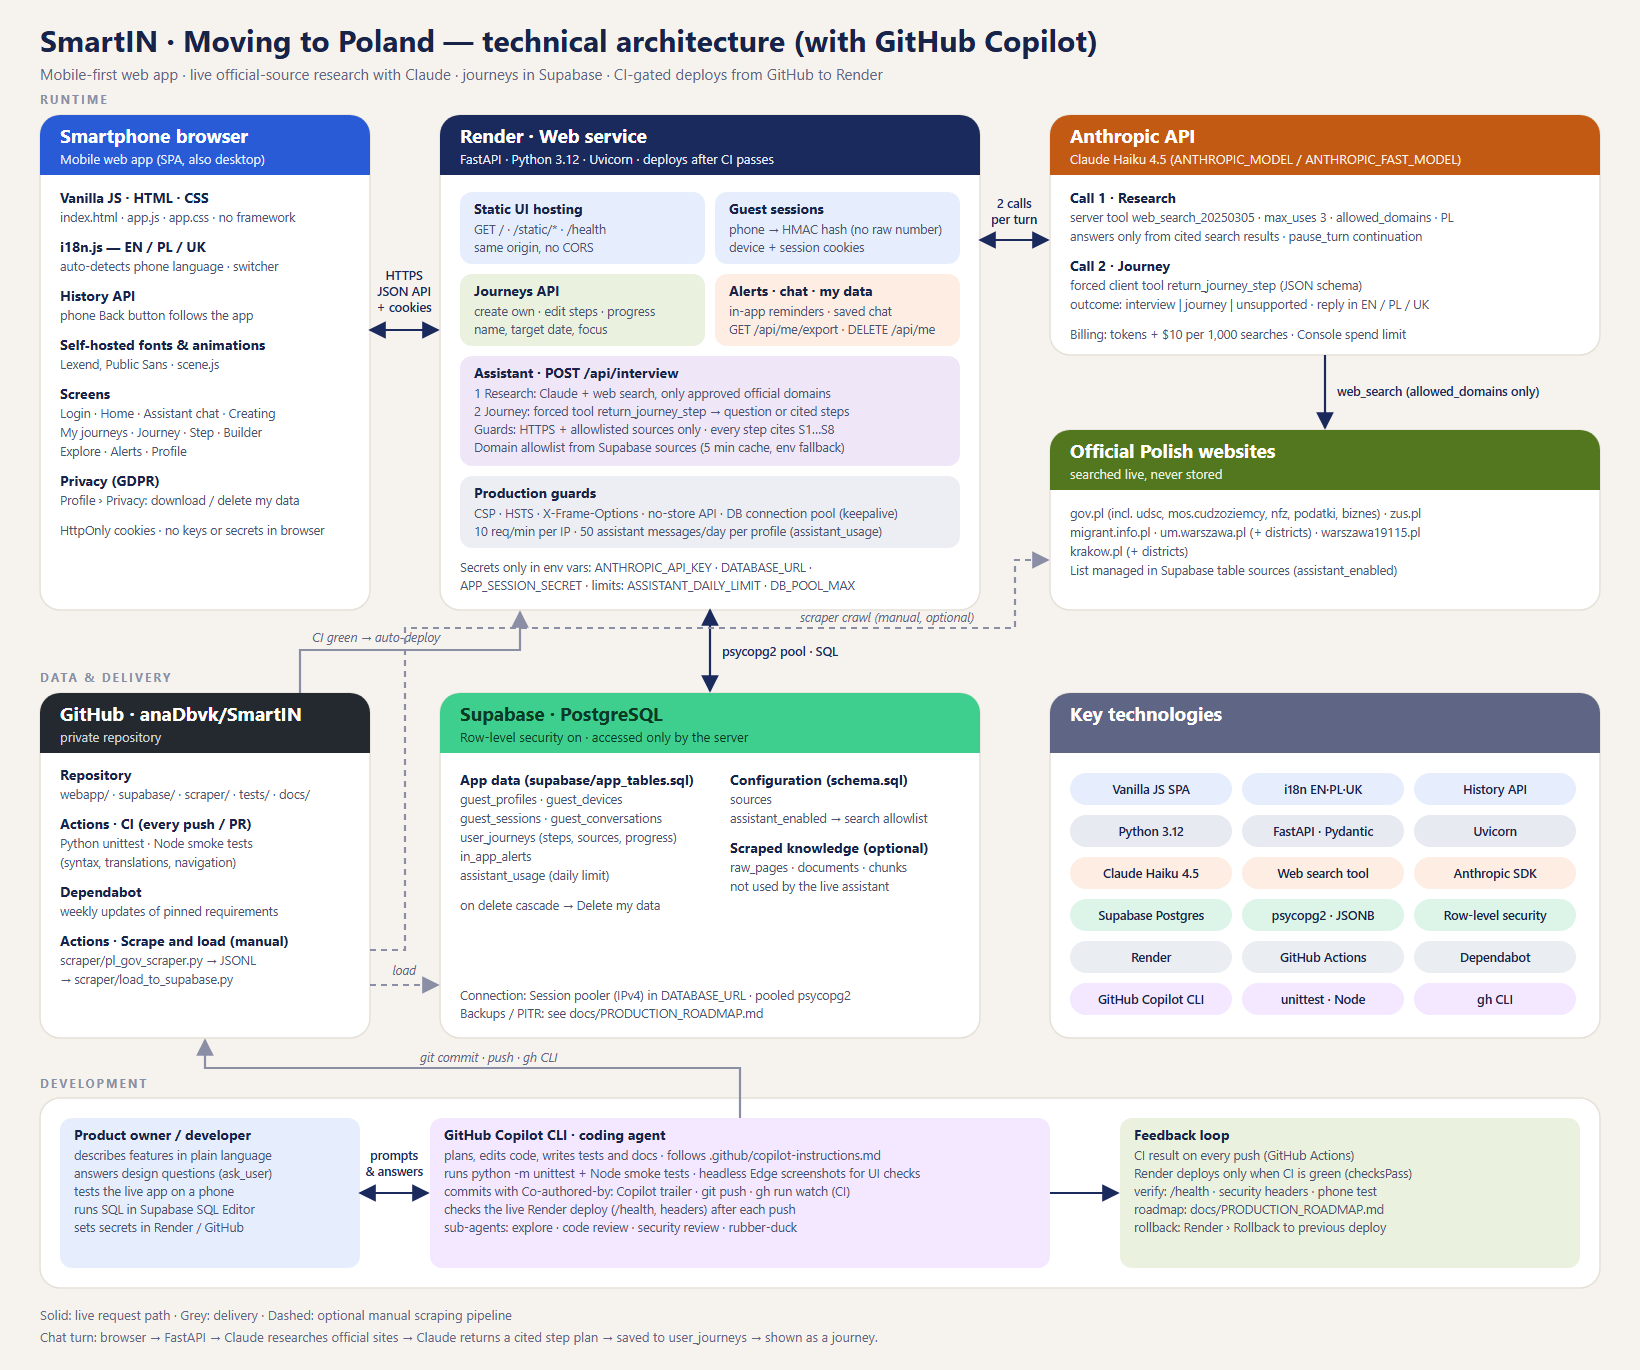
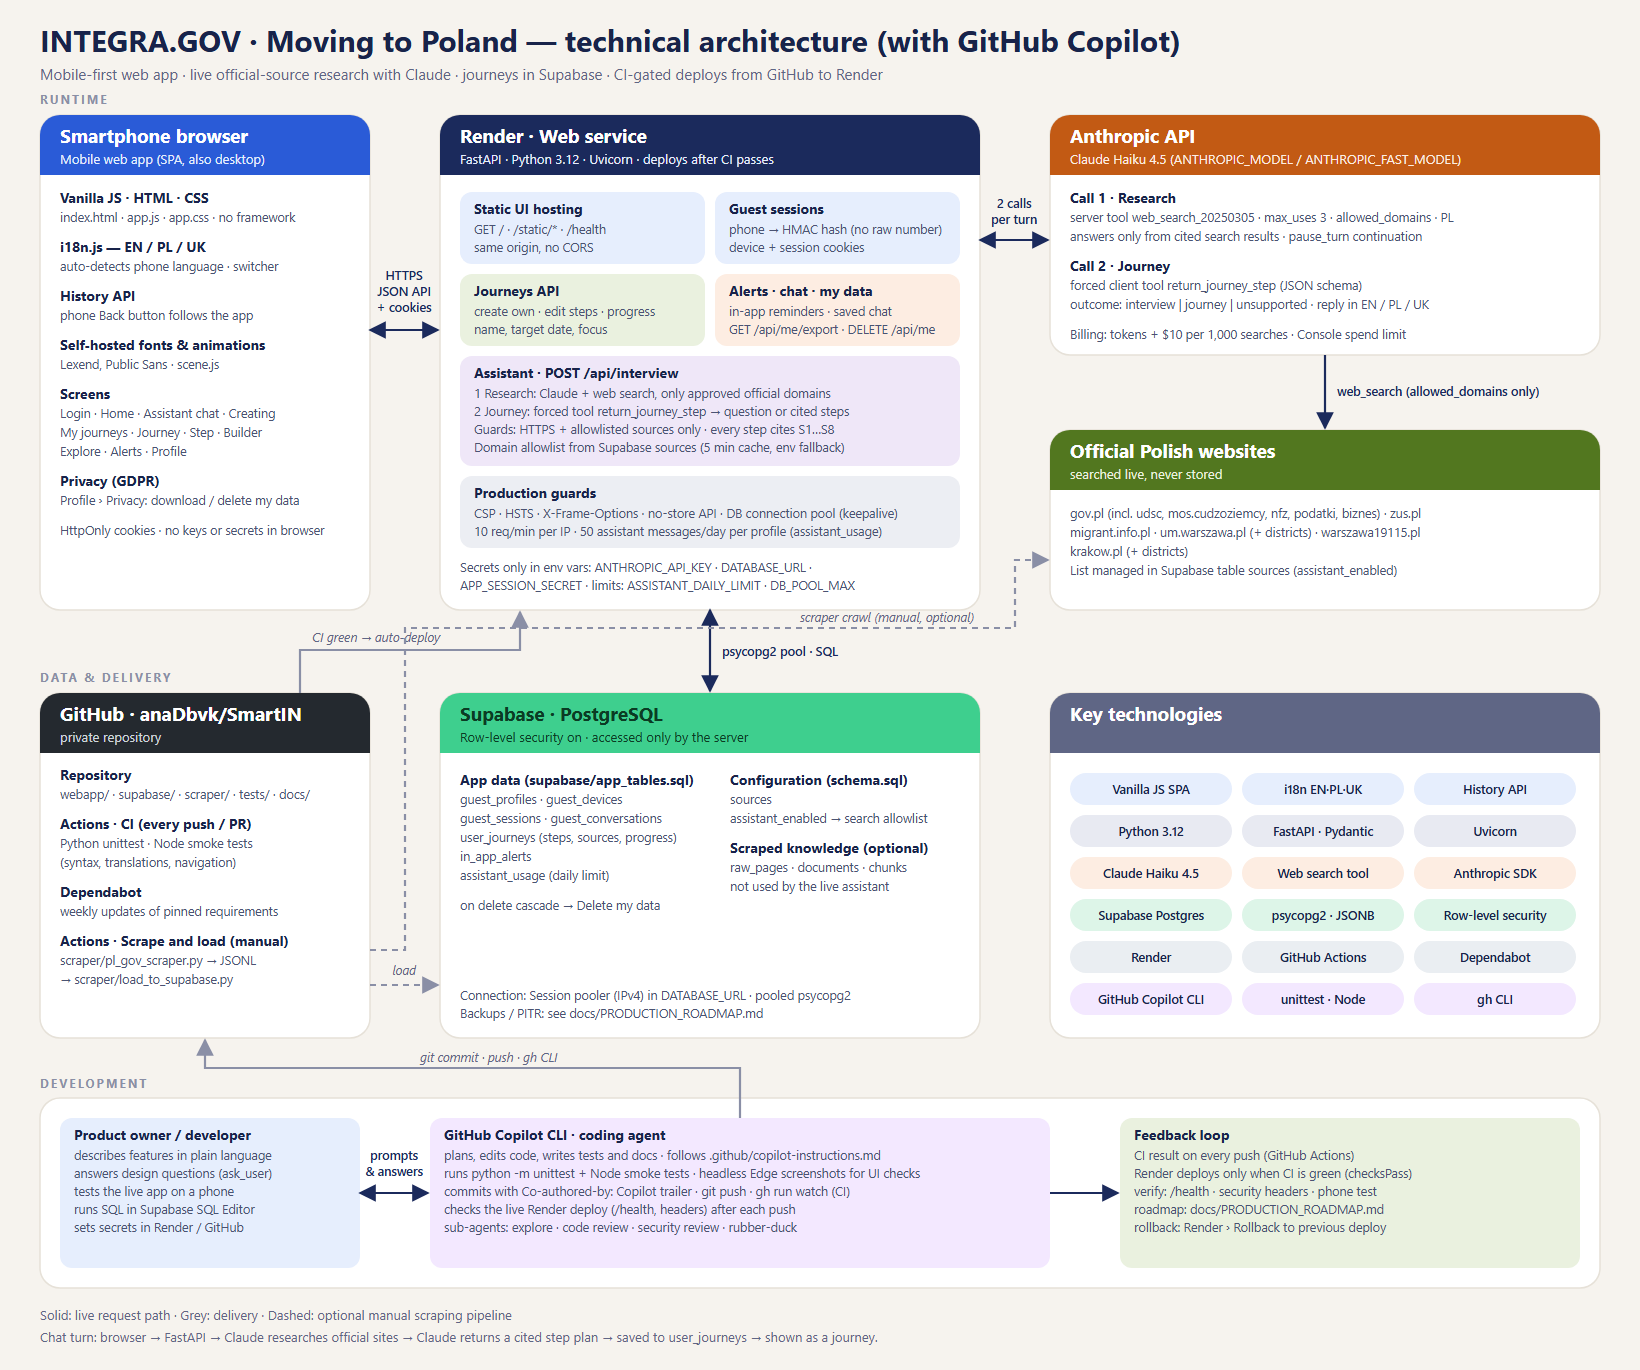
Rename SmartIN to INTEGRA.GOV in documentation and diagrams

Changed region(s): [[0.0311, 0.0, 0.7152, 0.0613]]

diff --git a/docs/build_diagrams.py b/docs/build_diagrams.py
@@ -1,4 +1,4 @@
-"""Generate the SmartIN architecture diagrams.
+"""Generate the INTEGRA.GOV architecture diagrams.
 
     python docs/build_diagrams.py
 
@@ -90,7 +90,7 @@ def build(copilot):
 </style>
 </defs>""")
     p.append(f'<rect width="{W}" height="{H}" fill="#F6F3EE"/>')
-    title = "SmartIN · Moving to Poland — technical architecture"
+    title = "INTEGRA.GOV · Moving to Poland — technical architecture"
     p.append(text(40, 52, title + (" (with GitHub Copilot)" if copilot else ""), "t", style="font-size:30px;font-weight:700"))
     p.append(text(40, 80, "Mobile-first web app · live official-source research with Claude · journeys in Supabase · "
                   "CI-gated deploys from GitHub to Render", "s", style="font-size:15px;fill:#5F6685"))

diff --git a/docs/PRODUCTION_ROADMAP.md b/docs/PRODUCTION_ROADMAP.md
@@ -1,4 +1,4 @@
-# SmartIN – Road to production
+# INTEGRA.GOV – Road to production
 
 This checklist is based on the current code (`webapp/app.py`, `render.yaml`, `supabase/*.sql`). Items are ordered by priority. **P0** must be done before real users, **P1** before public launch, and **P2** after launch.
 
@@ -76,7 +76,7 @@ This checklist is based on the current code (`webapp/app.py`, `render.yaml`, `su
 - [ ] Write a runbook: how to roll back on Render, restore the DB, and rotate keys.
 
 ### 9. Domain and delivery
-- [ ] Your own domain (for example `smartin.pl`) on Render with automatic HTTPS.
+- [ ] Your own domain (for example `integragov.pl`) on Render with automatic HTTPS.
 - [ ] Serve static files with cache headers and a version hash (`app.js?v=...`), or put Cloudflare in front for CDN and DDoS protection.
 - [ ] Make it a **PWA**: `manifest.json`, icons and a service worker, so users can "Add to Home Screen" and see journeys offline.
 

diff --git a/docs/ARCHITECTURE.md b/docs/ARCHITECTURE.md
@@ -1,14 +1,14 @@
-# SmartIN architecture
+# INTEGRA.GOV architecture
 
 ## Diagrams
 
 ### With GitHub Copilot (development loop)
 
-![SmartIN technical architecture with GitHub Copilot](architecture.png)
+![INTEGRA.GOV technical architecture with GitHub Copilot](architecture.png)
 
 ### Without GitHub Copilot
 
-![SmartIN technical architecture without GitHub Copilot](architecture-no-copilot.png)
+![INTEGRA.GOV technical architecture without GitHub Copilot](architecture-no-copilot.png)
 
 The SVG sources are [`architecture.svg`](architecture.svg) and
 [`architecture-no-copilot.svg`](architecture-no-copilot.svg). They are

diff --git a/.github/copilot-instructions.md b/.github/copilot-instructions.md
@@ -1,6 +1,6 @@
-# SmartIN: instructions for Copilot
+# INTEGRA.GOV: instructions for Copilot
 
-SmartIN ("Moving to Poland") is a mobile-first web app that guides newcomers
+INTEGRA.GOV ("Moving to Poland") is a mobile-first web app that guides newcomers
 through Polish public services (residence, documents, marriage, housing, health,
 taxes, business, local events). The FastAPI app researches approved official
 websites live with Anthropic web search, answers only from the cited results,

diff --git a/README.md b/README.md
@@ -1,4 +1,4 @@
-# SmartIN · Moving to Poland
+# INTEGRA.GOV · Moving to Poland
 
 A mobile-first web app that helps newcomers to Poland plan official tasks
 (residence permit, PESEL, address registration, NFZ, ZUS, taxes, business…).
@@ -8,7 +8,7 @@ edit their own journeys, track progress and see in-app reminders.
 
 Live: <https://moving-to-poland.onrender.com>
 
-![SmartIN architecture](docs/architecture.png)
+![INTEGRA.GOV architecture](docs/architecture.png)
 
 ## Features
 
